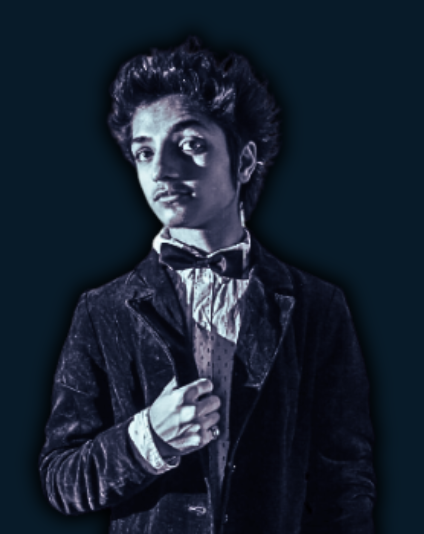
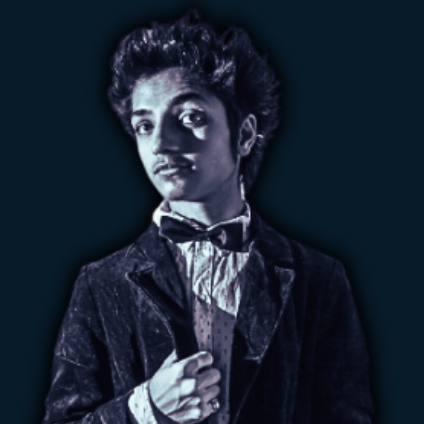
Finished about section in personal portfolio

diff --git a/Personal-Portfolio/css/style.css b/Personal-Portfolio/css/style.css
@@ -229,3 +229,76 @@ section {
     background: var(--bg-color);
     opacity: .8;
 }
+
+/* About Section CSS */
+.about {
+    display: flex;
+    justify-content: center;
+    align-items: center;
+    flex-direction: column;
+    gap: 2rem;
+    background: var(--second-bg-color);
+    padding: 6rem;
+}
+
+.heading {
+    font-size: 5rem;
+    margin-bottom: 3rem;
+    text-align: center;
+}
+
+span {
+    color: var(--main-color);
+}
+
+.about-img {
+    position: relative;
+    width: 25rem;
+    height: 25rem;
+    border-radius: 50%;
+    display: flex;
+    justify-content: center;
+    align-items: center;
+}
+
+.about-img img {
+    width: 90%;
+    border-radius: 50%;
+    border: .2rem solid var(--main-color);
+}
+
+.about-img .circle-spin {
+    position: absolute;
+    top: 50%;
+    left: 50%;
+    transform: translate(-50%, -50%) rotate(0);
+    width: 100%;
+    height: 100%;
+    border-radius: 50%;
+    border-top: .2rem solid var(--second-bg-color);
+    border-bottom: .2rem solid var(--second-bg-color);
+    border-left: .2rem solid var(--main-color);
+    border-right: .2rem solid var(--main-color);
+}
+
+.about-content {
+    text-align: center;
+}
+
+.about-content h3 {
+    font-size: 2.6rem;
+}
+
+.about-content p {
+    font-size: 1.6rem;
+    margin: 2rem 0 3rem;
+}
+
+.btn-box.btns {
+    display: inline-block;
+    width: 15rem;
+}
+
+.btn-box.btns a::before {
+    background: var(--second-bg-color)
+}

diff --git a/Personal-Portfolio/index.html b/Personal-Portfolio/index.html
@@ -61,6 +61,28 @@
     </section>
 
     <!-- about section design -->
+    <section class="about" id="about">
+        <h2 class="heading">About <span>Me</span></h2>
+
+        <div class="about-img">
+            <img src="/images/about.png" alt="Rounak Sharma Profile Picture">
+            <span class="circle-spin"></span>
+        </div>
+
+        <div class="about-content">
+            <h3>Frontend Developer!</h3>
+            <p>
+                Lorem ipsum dolor sit amet consectetur adipisicing elit. Aspernatur rerum voluptate veniam, qui ipsum
+                consectetur, error totam aliquam id saepe quasi illum vitae incidunt necessitatibus. Qui ea perferendis
+                harum ipsam quidem laudantium maxime provident quos. Veritatis tempore quos reiciendis explicabo
+                perferendis beatae minima, molestiae aspernatur consequatur ea reprehenderit cumque blanditiis.
+            </p>
+
+            <div class="btn-box btns">
+                <a href="#" class="btn">Read More</a>
+            </div>
+        </div>
+    </section>
 
     <!-- education section design -->
 
